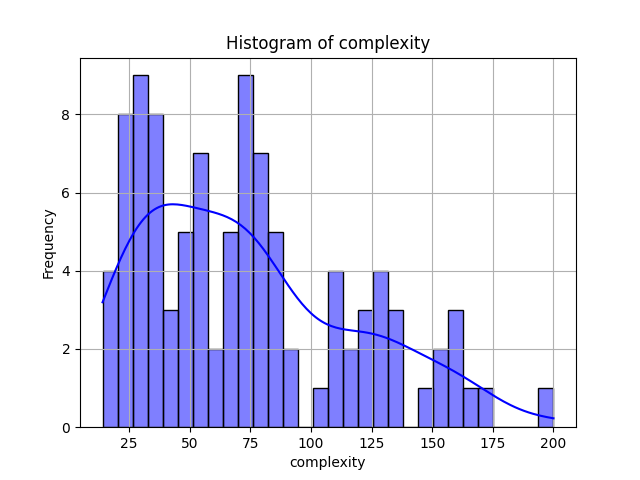
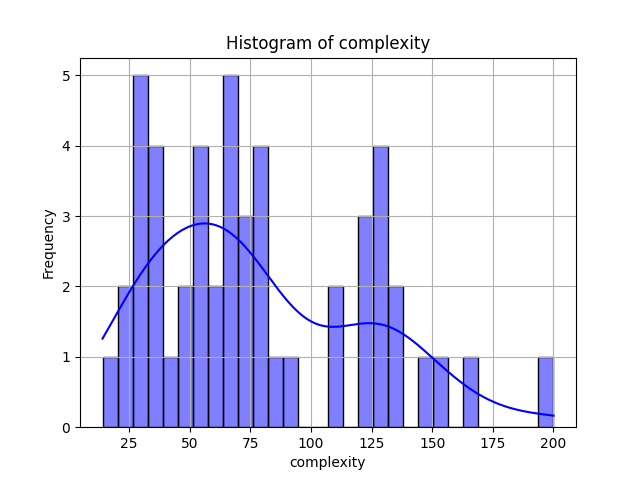
ADD new images

diff --git a/src/data_distribution.py b/src/data_distribution.py
@@ -13,7 +13,7 @@ with open('data/sorted_artworks.json', 'r') as f:
 df = pd.DataFrame(data)
 
 # Keep top 100
-df = df.head(100)
+df = df.head(50)
 
 # Descriptive statistics
 print("Basic descriptive statistics:")
@@ -56,6 +56,7 @@ plt.show()
 
 # Bar plot for artists
 artist_counts = df['created_by'].value_counts()
+print(len(artist_counts))
 plt.figure()
 artist_counts.plot(kind='bar', color='red')
 plt.title('Frequency of Artists')
